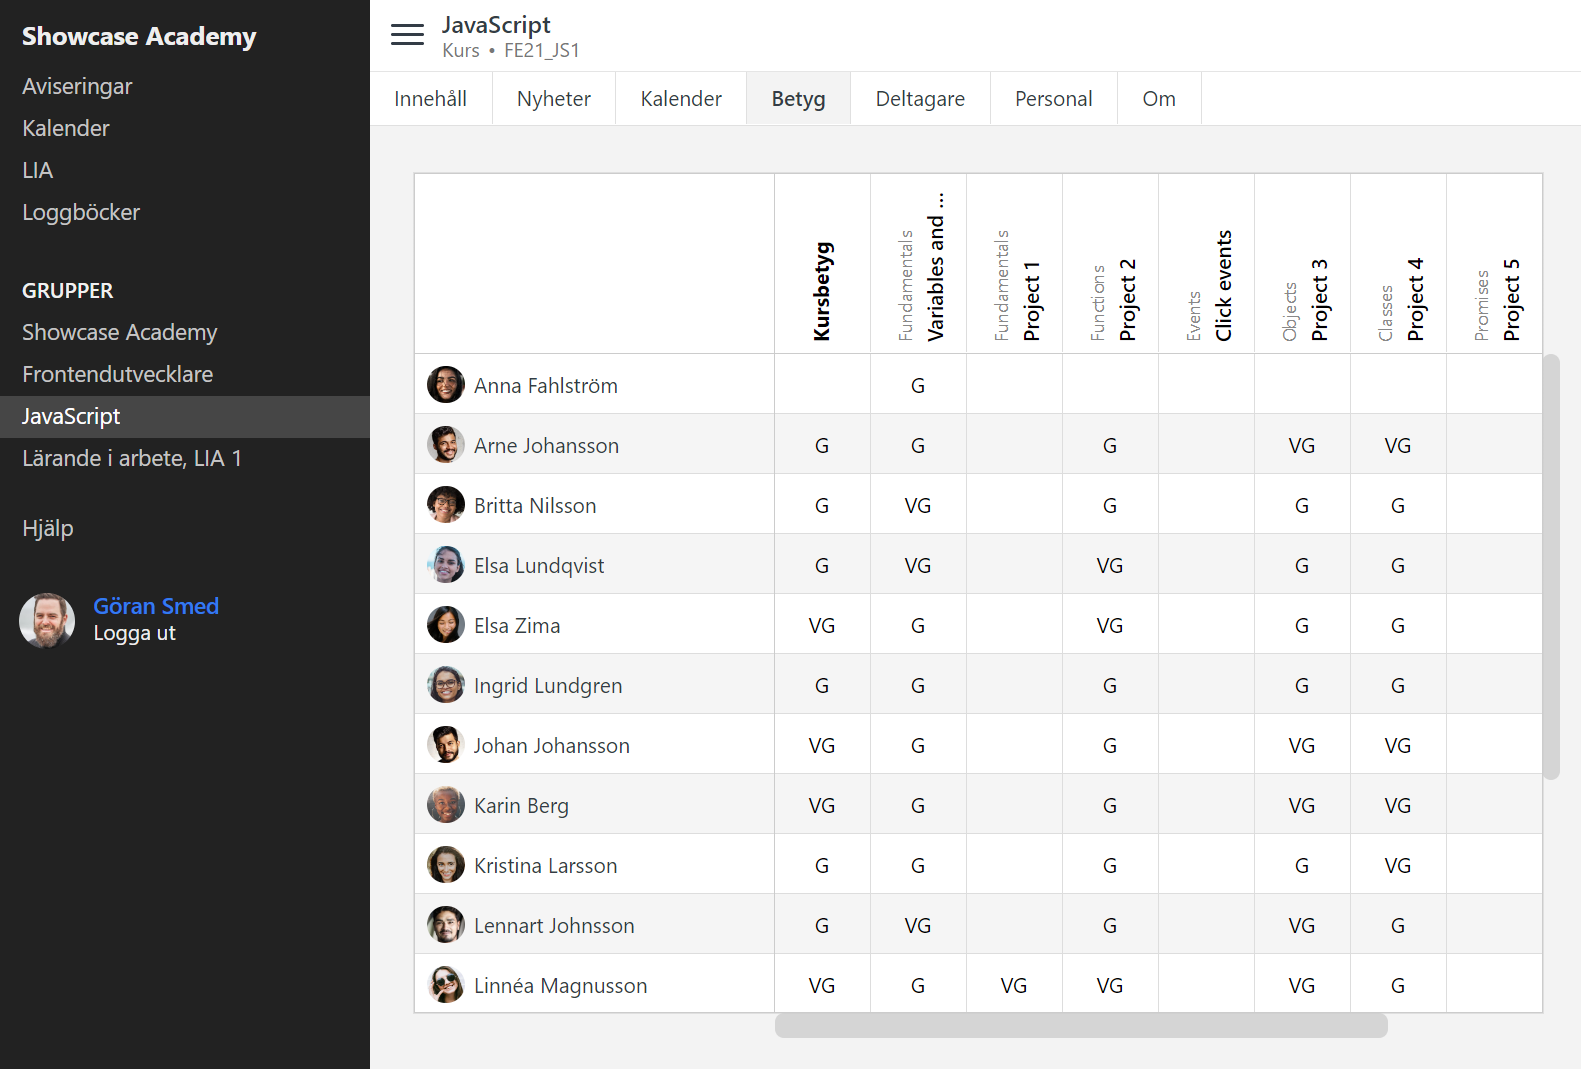
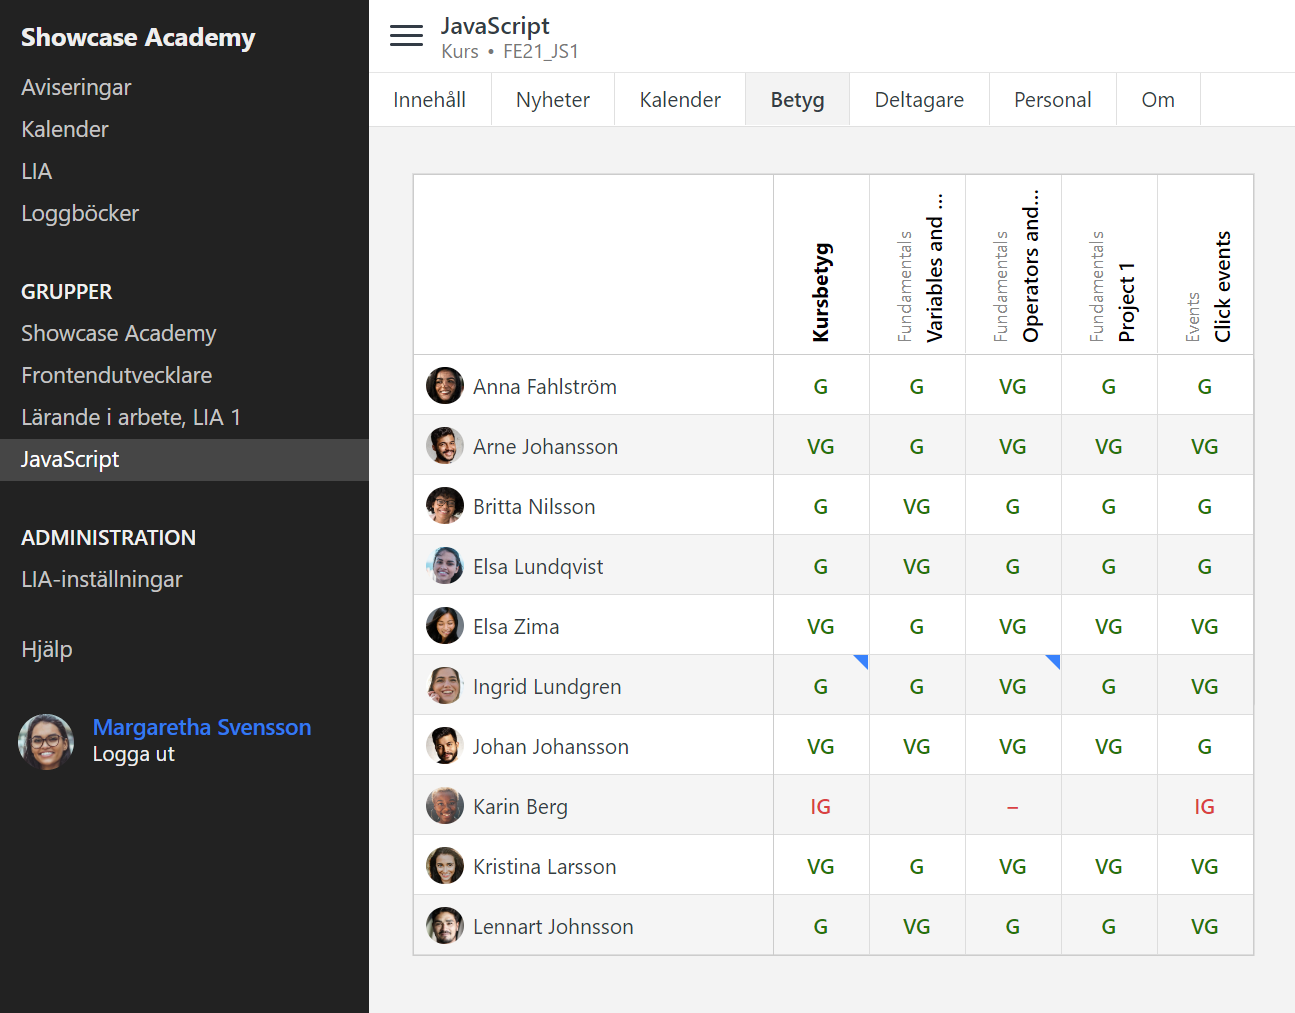
updated grading screenhosts and help text

diff --git a/docs/help/grading/courses.html b/docs/help/grading/courses.html
@@ -173,7 +173,7 @@
                     <h1>Kurser</h1>
 <p lang="en" style="font-style:italic;">This page is only available in swedish.</p>
 
-<p>En överblick av samtliga betyg på en kurs finns på sidan <code>Betyg</code>. Kursbetygen visas i den första kolumnen:</p>
+<p>Kursbetygen finns i den första kolumnen på betygssidan:</p>
 <div class="desktop-screenshot print__avoid-break-inside light">
     <div class="desktop-screenshot__browser-frame">
         <span class="desktop-screenshot__browser-frame-button"></span>
@@ -190,7 +190,7 @@
 <li>Gå till sidan <code>Betyg</code>.</li>
 <li>Klicka på rutan för kursbetyg på någon av studenterna.</li>
 <li>Välj betyg.</li>
-<li>Klicka på <code>Klarrapportera</code> när du är färdig med betygsättningen.</li>
+<li>Klicka på <code>Klarrapportera</code> när du är klar med betygsättningen.</li>
 <li>Klicka på <code>Publicera</code> när du vill att betyget skall visas för studenten. <em>NOTERA:</em> Ibland har du som lärare inte behörighet att publicera kursbetyg och då kan du hoppa över detta steg.</li>
 <li>Välj nästa student bland genvägarna:</li>
 </ol>
@@ -200,7 +200,7 @@
         <span class="desktop-screenshot__browser-frame-button"></span>
         <span class="desktop-screenshot__browser-frame-button"></span>
     </div>
-    <video autoplay playsinline loop muted inline alt="Betygsätt kurs" src="_assets/grade-course.mp4" oncanplay="this.parentElement.classList.add('LOADED')"></video>
+    <video autoplay playsinline loop muted inline alt="Sätt betyg på kurs" src="_assets/grade-course.mp4" oncanplay="this.parentElement.classList.add('LOADED')"></video>
 </div>
 
 

diff --git a/docs/help/grading/introduction.html b/docs/help/grading/introduction.html
@@ -173,7 +173,7 @@
                     <h1>Betyg</h1>
 <p lang="en" style="font-style:italic;">This page is only available in swedish.</p>
 
-<p>Betyg kan sättas både på kurser och kursdelar. En överblick av alla betyg finns på sidan <code>Betyg</code> i respektive kurs:</p>
+<p>Betyg kan sättas på både kurser och kursdelar. I varje kurs finns en översikt på sidan <code>Betyg</code>. Den blå triangeln indikerar att betyget ännu inte är publicerat till studenten:</p>
 <div class="desktop-screenshot print__avoid-break-inside light">
     <div class="desktop-screenshot__browser-frame">
         <span class="desktop-screenshot__browser-frame-button"></span>

diff --git a/docs/help/grading/course-items.html b/docs/help/grading/course-items.html
@@ -193,8 +193,8 @@
 <li>En liten blå ikon för nya inlämningar.</li>
 <li>En siffra för nya kommentarer.</li>
 <li>Det angivna betyget.</li>
-<li>Om betyget har publicerats.</li>
-<li>En knapp för att publicera samtliga betyg som inte publicerats.</li>
+<li>Om betyget inte har publicerats.</li>
+<li>En knapp för att publicera samtliga betyg som ännu inte publicerats.</li>
 </ul>
 <div class="desktop-screenshot print__avoid-break-inside light">
     <div class="desktop-screenshot__browser-frame">

diff --git a/src/help/grading/courses.md b/src/help/grading/courses.md
@@ -11,7 +11,7 @@ next_url: /help/internship/introduction.html
 
 <!-- only-in-swedish.html -->
 
-En överblick av samtliga betyg på en kurs finns på sidan `Betyg`. Kursbetygen visas i den första kolumnen:
+Kursbetygen finns i den första kolumnen på betygssidan:
 
 <!-- desktop-screenshot.html, { src: "_assets/course-grades-in-gradebook.png", alt: "Kursbetyg på betygssidan", theme: "light" } -->
 
@@ -21,11 +21,11 @@ En överblick av samtliga betyg på en kurs finns på sidan `Betyg`. Kursbetygen
 1. Gå till sidan `Betyg`.
 2. Klicka på rutan för kursbetyg på någon av studenterna.
 3. Välj betyg.
-4. Klicka på `Klarrapportera` när du är färdig med betygsättningen.
+4. Klicka på `Klarrapportera` när du är klar med betygsättningen.
 5. Klicka på `Publicera` när du vill att betyget skall visas för studenten. *NOTERA:* Ibland har du som lärare inte behörighet att publicera kursbetyg och då kan du hoppa över detta steg.
 6. Välj nästa student bland genvägarna:
 
-<!-- desktop-recording.html, { src: "_assets/grade-course.mp4", alt: "Betygsätt kurs", theme: "light" } -->
+<!-- desktop-recording.html, { src: "_assets/grade-course.mp4", alt: "Sätt betyg på kurs", theme: "light" } -->
 
 
 ## Ta bort betyg på kurs

diff --git a/src/help/grading/introduction.md b/src/help/grading/introduction.md
@@ -11,7 +11,7 @@ next_url: /help/grading/course-items.html
 
 <!-- only-in-swedish.html -->
 
-Betyg kan sättas både på kurser och kursdelar. En överblick av alla betyg finns på sidan `Betyg` i respektive kurs:
+Betyg kan sättas på både kurser och kursdelar. I varje kurs finns en översikt på sidan `Betyg`. Den blå triangeln indikerar att betyget ännu inte är publicerat till studenten:
 
 <!-- desktop-screenshot.html, { src: "_assets/gradebook.png", alt: "Betygssidan", theme: "light" } -->
 

diff --git a/src/help/grading/course-items.md b/src/help/grading/course-items.md
@@ -26,8 +26,8 @@ Varje kursdel har en uppföljningssida. På den visas:
 * En liten blå ikon för nya inlämningar.
 * En siffra för nya kommentarer.
 * Det angivna betyget.
-* Om betyget har publicerats.
-* En knapp för att publicera samtliga betyg som inte publicerats.
+* Om betyget inte har publicerats.
+* En knapp för att publicera samtliga betyg som ännu inte publicerats.
 
 <!-- desktop-screenshot.html, { src: "_assets/results-page.png", alt: "Uppföljningssidan", theme: "light" } -->
 
